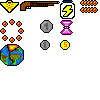
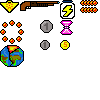
finishing up hud

Changed region(s): [[0.0, 0.18, 0.24, 0.69]]

diff --git a/Game/src/Entities/PlayerController.cpp b/Game/src/Entities/PlayerController.cpp
@@ -12,8 +12,8 @@ namespace Game
         float x = npc_trans->m_Position[0];
         float y = npc_trans->m_Position[1];
 
-        item->AddComponent<Engine::TransformComponent>(x, y, 22.f, 22.f);
-        item->AddComponent<Engine::CollisionComponent>(22.f, 22.f);
+        item->AddComponent<Engine::TransformComponent>(x, y, 40.f, 40.f);
+        item->AddComponent<Engine::CollisionComponent>(40.f, 40.f);
         item->AddComponent<Engine::ItemComponent>(SDL_GetTicks());
         item->GetComponent<Engine::ItemComponent>()->m_itemType = item_type;
         item->AddComponent<Engine::SpriteComponent>().m_Image = texture;
@@ -22,7 +22,7 @@ namespace Game
         switch (item_type) {
 		//lives
 		case 0:
-			new_rect = { 0, 0, 18, 12 };
+			new_rect = { 0, 0, 19, 12 };
 			break;
 		//speed
 		case 1:
@@ -34,7 +34,7 @@ namespace Game
 			break;
 		//destroyer of worlds
 		case 3:
-			new_rect = { 20, 0, 40, 11 };
+			new_rect = { 0, 45, 24, 22 };
 			break;
 		//timelord
 		case 4:
@@ -73,6 +73,10 @@ namespace Game
 
 
             if (SDL_GetTicks() > item->GetComponent<Engine::ItemComponent>()->m_timeCreated + 8000) {
+				if (item->GetComponent<Engine::TransformComponent>()->m_Position.x == -2000) {
+					auto player = entityManager_->GetAllEntitiesWithComponent< Engine::PlayerComponent>()[0];
+					player->GetComponent<Engine::PlayerComponent>()->m_apocalypse = false;
+				}
                 entityManager_->RemoveEntity(item->GetId());
                 continue;
             }
@@ -95,10 +99,13 @@ namespace Game
                         }
                         else
                         {
+							auto player = entityManager_->GetAllEntitiesWithComponent< Engine::PlayerComponent>()[0];
+							player->GetComponent<Engine::PlayerComponent>()->m_apocalypse = true;
                             auto enemies = entityManager_->GetAllEntitiesWithComponents<Engine::NPCComponent>();
                             for (auto* enemy : enemies) {
                                 entityManager_->RemoveEntity(enemy->GetId());
                             }
+							
                         } 
                         item->GetComponent<Engine::ItemComponent>()->m_timeCreated = SDL_GetTicks();
                         item->GetComponent<Engine::TransformComponent>()->m_Position.x = -2000;
@@ -385,7 +392,7 @@ namespace Game
                 {
 					auto itemStash = entityManager_->GetAllEntitiesWithComponents<Engine::ItemStashComponent>()[0];
 					auto itemSprite = itemStash->GetComponent<Engine::SpriteComponent>();
-                   CreateItem(entityManager_, 6, itemSprite->m_Image, entity);
+                   CreateItem(entityManager_, 3, itemSprite->m_Image, entity);
                    entityManager_->RemoveEntity(fireball->GetId());
                    entityManager_->RemoveEntity(entity->GetId());
                    
@@ -524,7 +531,7 @@ namespace Game
             
 
             auto collider = player->GetComponent<Engine::CollisionComponent>();
-
+			//ovo je mozda problem - ako je entyty koji removojemo u ovome
             for (auto* entity : collider->m_CollidedWith)
             {
 
@@ -548,7 +555,9 @@ namespace Game
                         auto enemies = entityManager_->GetAllEntitiesWithComponents<Engine::NPCComponent>();
                         for (auto* enemy : enemies) {
                             entityManager_->RemoveEntity(enemy->GetId());
+							
                         }
+						break;
                     }
                 }
 

diff --git a/Game/src/Entities/HudController.cpp b/Game/src/Entities/HudController.cpp
@@ -23,7 +23,7 @@ namespace Game
 		life_display->AddComponent<Engine::LifeDisplayComponent>();
 
 		auto* sprite = life_display->GetComponent<Engine::SpriteComponent>();
-		SDL_Rect new_rect{ 0, 0, 18, 12 };
+		SDL_Rect new_rect{ 0, 0, 19, 12 };
 		sprite->m_src = new_rect;
 		sprite->m_Animation = true;
 
@@ -100,12 +100,12 @@ namespace Game
 
 		auto destroyer = std::make_unique<Engine::Entity>();
 
-		destroyer->AddComponent<Engine::TransformComponent>(-static_cast<float>(0.45f * window_width), -static_cast<float>(0.06f * window_height), static_cast<float>(60), static_cast<float>(76));
+		destroyer->AddComponent<Engine::TransformComponent>(-static_cast<float>(0.45f * window_width), -static_cast<float>(0.06f * window_height), static_cast<float>(72), static_cast<float>(66));
 		destroyer->AddComponent<Engine::SpriteComponent>().m_Image = texture_manager_->GetTexture("faded");
 		destroyer->AddComponent<Engine::DestroyerHudComponent>();
 
 		auto* destroyer_sprite = destroyer->GetComponent<Engine::SpriteComponent>();
-		SDL_Rect new_destroyer_rect{ 60, 0, 15, 19 };
+		SDL_Rect new_destroyer_rect{ 0, 45, 24, 22 };
 		destroyer_sprite->m_src = new_destroyer_rect;
 		destroyer_sprite->m_Animation = true;
 
@@ -188,20 +188,22 @@ namespace Game
 			}
 		}
 
-		if (player->GetComponent<Engine::PlayerComponent>()->m_speed > 200.f) {
+		if (player->GetComponent<Engine::PlayerComponent>()->m_speedBuff) {
 			entityManager_->GetAllEntitiesWithComponent< Engine::SpeedHudComponent>()[0]->GetComponent<Engine::SpriteComponent>()->m_Image = texture_manager_->GetTexture("items");
 		}else{
 			entityManager_->GetAllEntitiesWithComponent< Engine::SpeedHudComponent>()[0]->GetComponent<Engine::SpriteComponent>()->m_Image = texture_manager_->GetTexture("faded");
 		}
-		//Rapid doesn'work
-		if (player->GetComponent<Engine::PlayerComponent>()->m_fireballCooldown < 500.f) {
+		
+		if (player->GetComponent<Engine::PlayerComponent>()->m_rapidFire) {
 			entityManager_->GetAllEntitiesWithComponent< Engine::RapidHudComponent>()[0]->GetComponent<Engine::SpriteComponent>()->m_Image = texture_manager_->GetTexture("items");
 		}
 		else {
 			entityManager_->GetAllEntitiesWithComponent< Engine::RapidHudComponent>()[0]->GetComponent<Engine::SpriteComponent>()->m_Image = texture_manager_->GetTexture("faded");
 		}
 
-		if (player->GetComponent<Engine::PlayerComponent>()->m_timeoutBuff) {
+		
+
+		if (player->GetComponent<Engine::PlayerComponent>()->m_apocalypse) {
 			entityManager_->GetAllEntitiesWithComponent< Engine::DestroyerHudComponent>()[0]->GetComponent<Engine::SpriteComponent>()->m_Image = texture_manager_->GetTexture("items");
 		}
 		else {

diff --git a/Game/src/Core/GameApp.cpp b/Game/src/Core/GameApp.cpp
@@ -73,9 +73,10 @@ bool Game::GameApp::GameSpecificInit()
 
 void Game::GameApp::GameSpecificUpdate(float dt)
 {
+	Game::UpdateItems(m_EntityManager.get());
     m_PlayerController->Update(dt, m_EntityManager.get());
 	m_ObstacleController->Update(dt, m_EntityManager.get());
-	Game::UpdateItems(m_EntityManager.get());
+	
 	if (!m_Factory->IsFactoryPaused())
 	{
 		m_Factory->Update(dt, m_EntityManager.get(), m_TextureManager.get());

diff --git a/Engine/src/ECS/Component.h b/Engine/src/ECS/Component.h
@@ -99,6 +99,7 @@ namespace Engine
         bool m_timeoutBuff{ false };
         bool m_tripleshotBuff{ false };
         bool m_multishotBuff{ false };
+		bool m_apocalypse{ false };
 		int m_number_of_lives{ 3 };
     };
 
